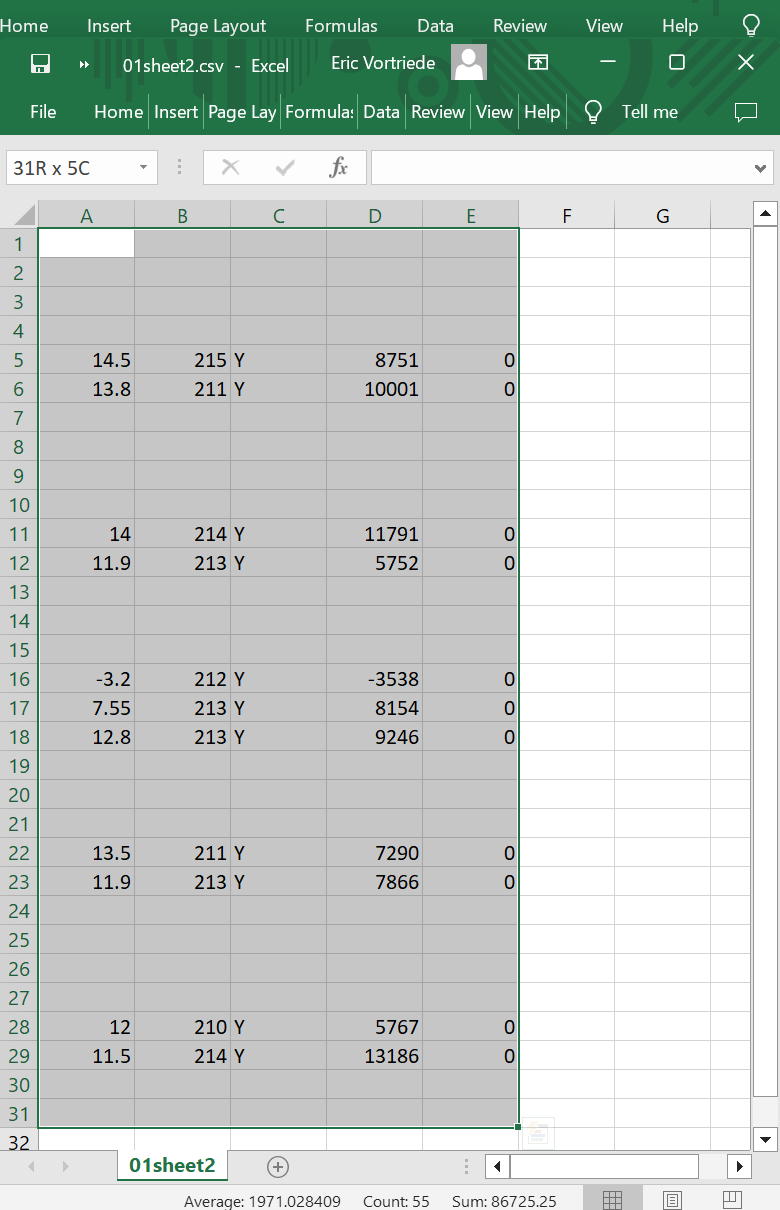
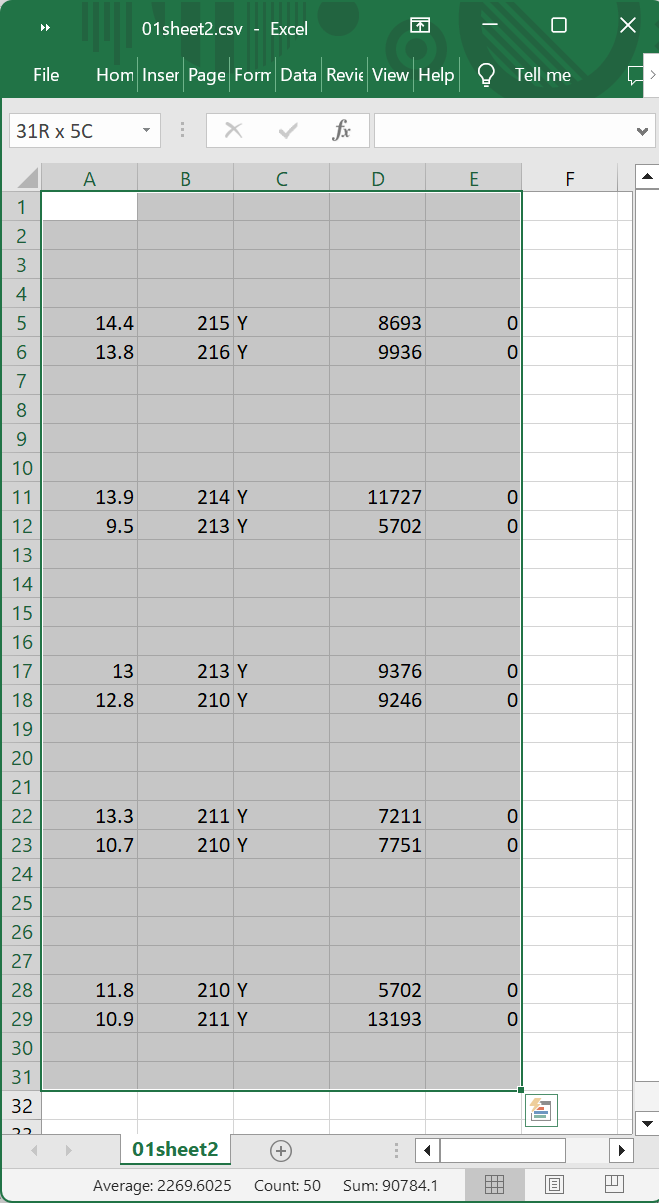
Refined Start/Stop logic in VolTurbProcessir.java
Reworked logic for finding start and stop time for WTP runs and made new screenshots of the resulting reports.

diff --git a/src/com/lwc/VolTurbProcessor.java b/src/com/lwc/VolTurbProcessor.java
@@ -33,9 +33,14 @@ public class VolTurbProcessor
 */
   }
   
+  public static final long aDayInMsec=(24*60*60*1000);
+  
   void getStartAndEndTimes() throws Exception
   {
-  	int[] sample=new int[8];
+  	long lastTurb=0;
+  	long lastStop=0;
+  	long lastStart=0;
+  	int[] sample=new int[16];
   	int iSample=0;
   	int avg=0;
   	int total=0;
@@ -57,30 +62,41 @@ public class VolTurbProcessor
   		}
   		if (line.contains("gall"))
   		{
+  			long lineTime=Long.parseLong(getTsTextFromLine(line));
+  			if (!fOn && (lineTime-lastTurb)>180000)
+  			{
+  				lastTurb=0;
+  			}
   			int value=getGallFromLine(line);
   			total=total - sample[iSample] + value;
   			sample[iSample]=value;
-  			iSample = (iSample+1)%8;
-  			int newAvg=total/8;
-  			if (!fOn && (newAvg-avg)>=0 && value<10000) // transition from off to on
+  			iSample = (iSample+1)%16;
+  			int newAvg=total/16;
+  			int delta=newAvg-avg;
+  			if (fOn)
   			{
-  				fOn=true;
-  				hm.put(getTsTextFromLine(line),line.substring(0, 36) + "start");
-  				System.err.println(getCorrectedLine(line," start"));
-  			}
-  			else if (fOn)
-  			{
-//  				String x=getTsTextFromLine(line)+" "+value+" "+avg+" "+newAvg+" "+(newAvg-avg);
-//  				System.out.println(x);
-  				if ((newAvg-avg)<0 && value>18000) // transition from on to off
+  				if (delta<0 && (lineTime-lastTurb)>120000) // transition from on to off
   				{
 	  				fOn=false;
 	  				hm.put(getTsTextFromLine(line),line.substring(0, 36) + " stop");
 	  				System.err.println(getCorrectedLine(line," stop"));
+	  				lastTurb=0;
+	  				lastStop=lineTime;
   				}
+  			}
+  			else if (delta>=0 && lastTurb!=0 && (lineTime-lastStop)>aDayInMsec) // transition from off to on
+  			{
+  				fOn=true;
+  				hm.put(getTsTextFromLine(line),line.substring(0, 36) + " start");
+  				System.err.println(getCorrectedLine(line," start"));
+  				lastStart=lineTime;
   			}
   			avg=newAvg;
   		}
+			else if (line.contains("turbidity"))
+			{
+				lastTurb=Long.parseLong(getTsTextFromLine(line));
+			}
   	}
   	bsr.reset();
   }
